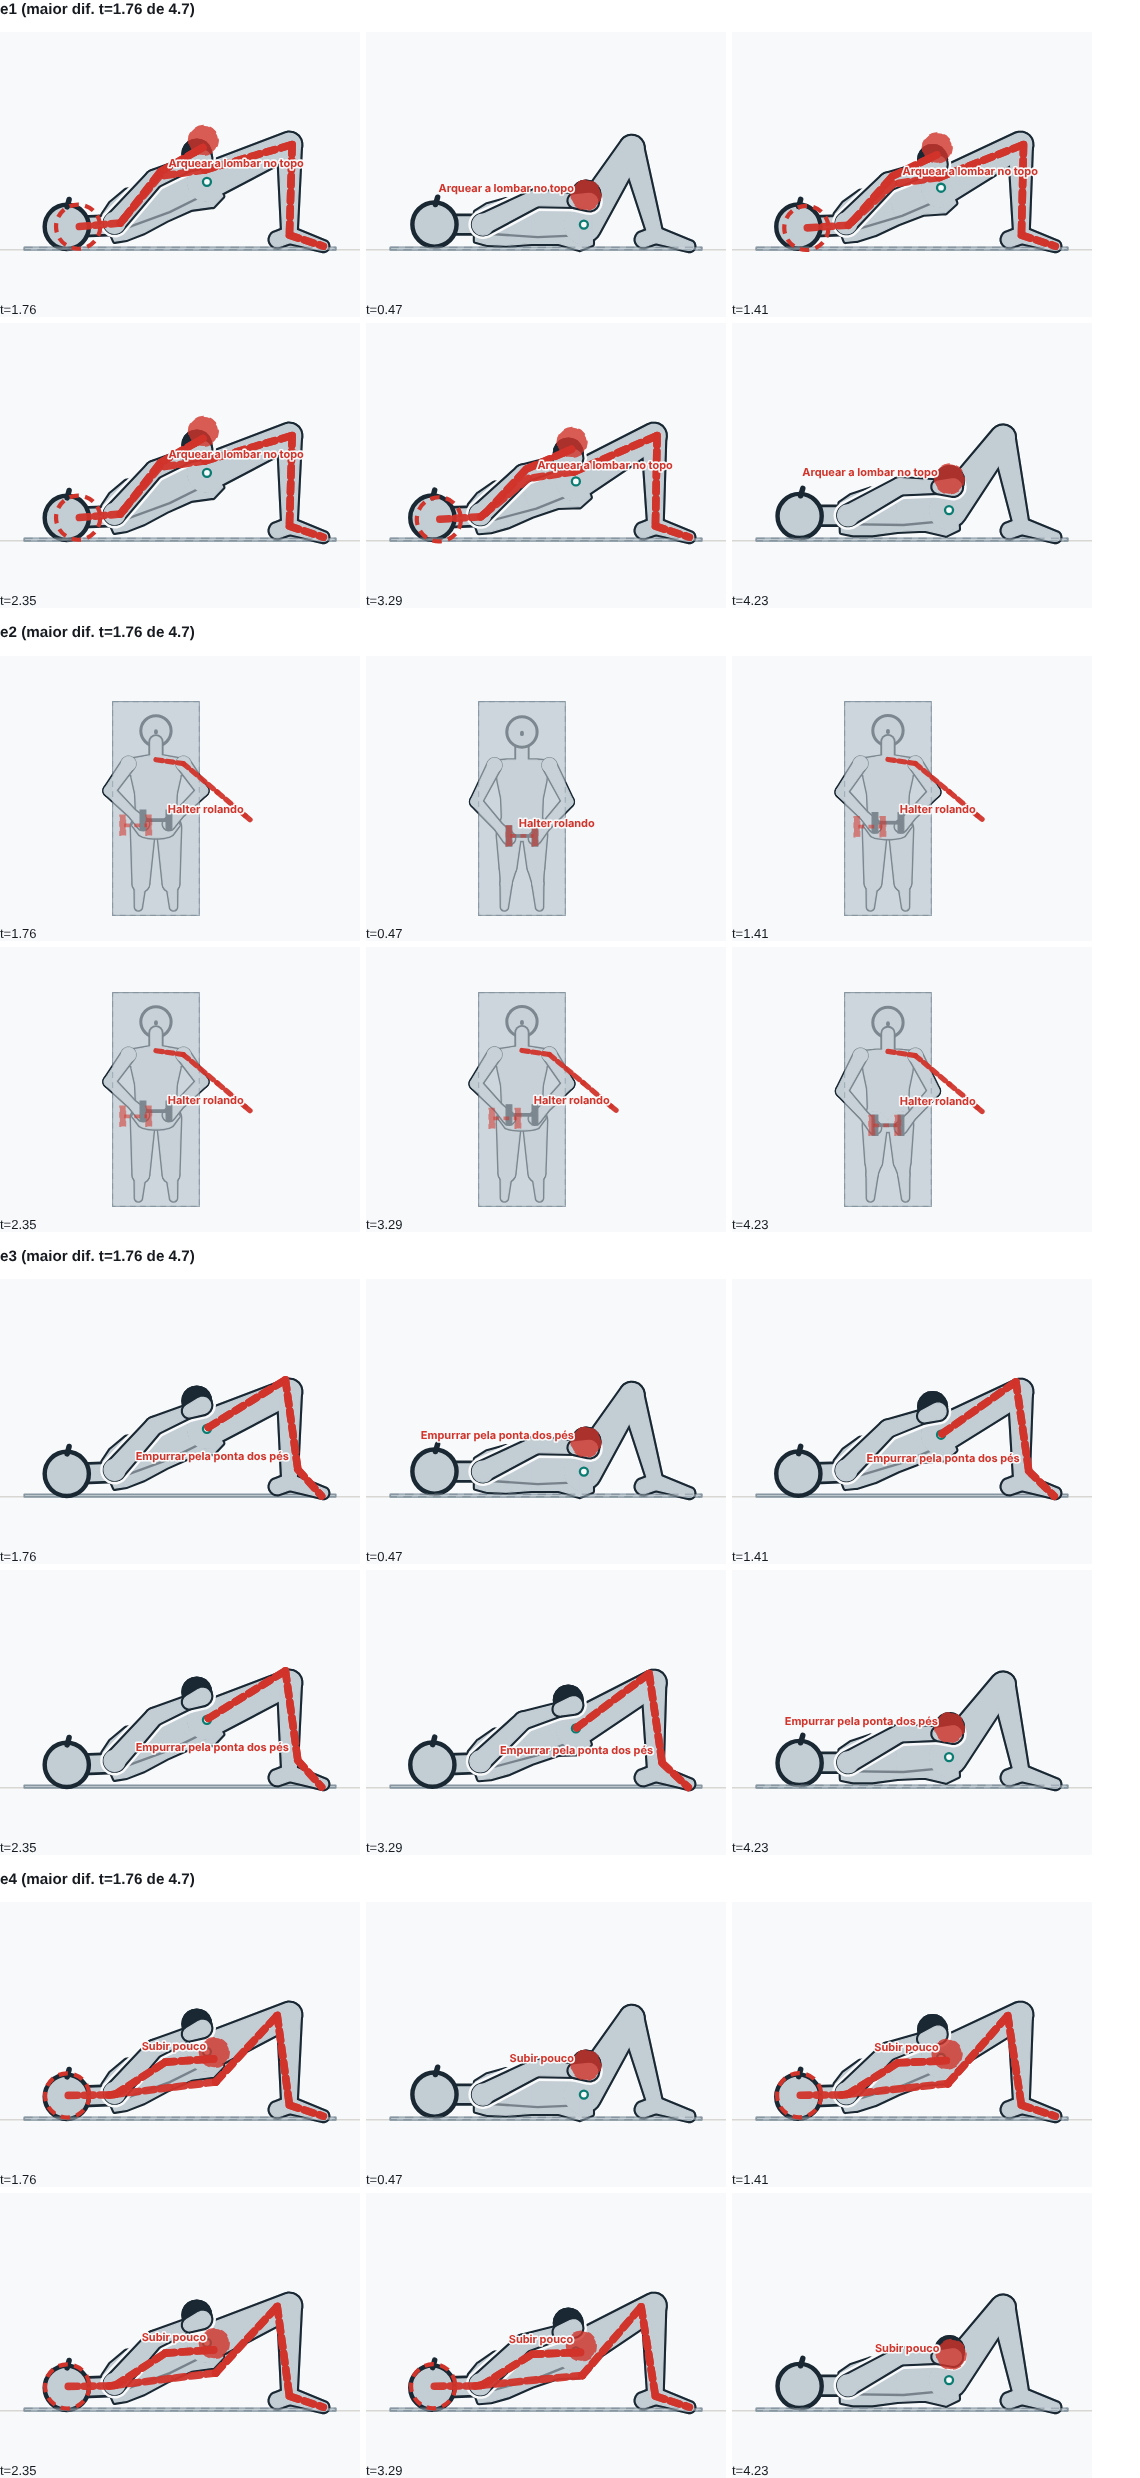
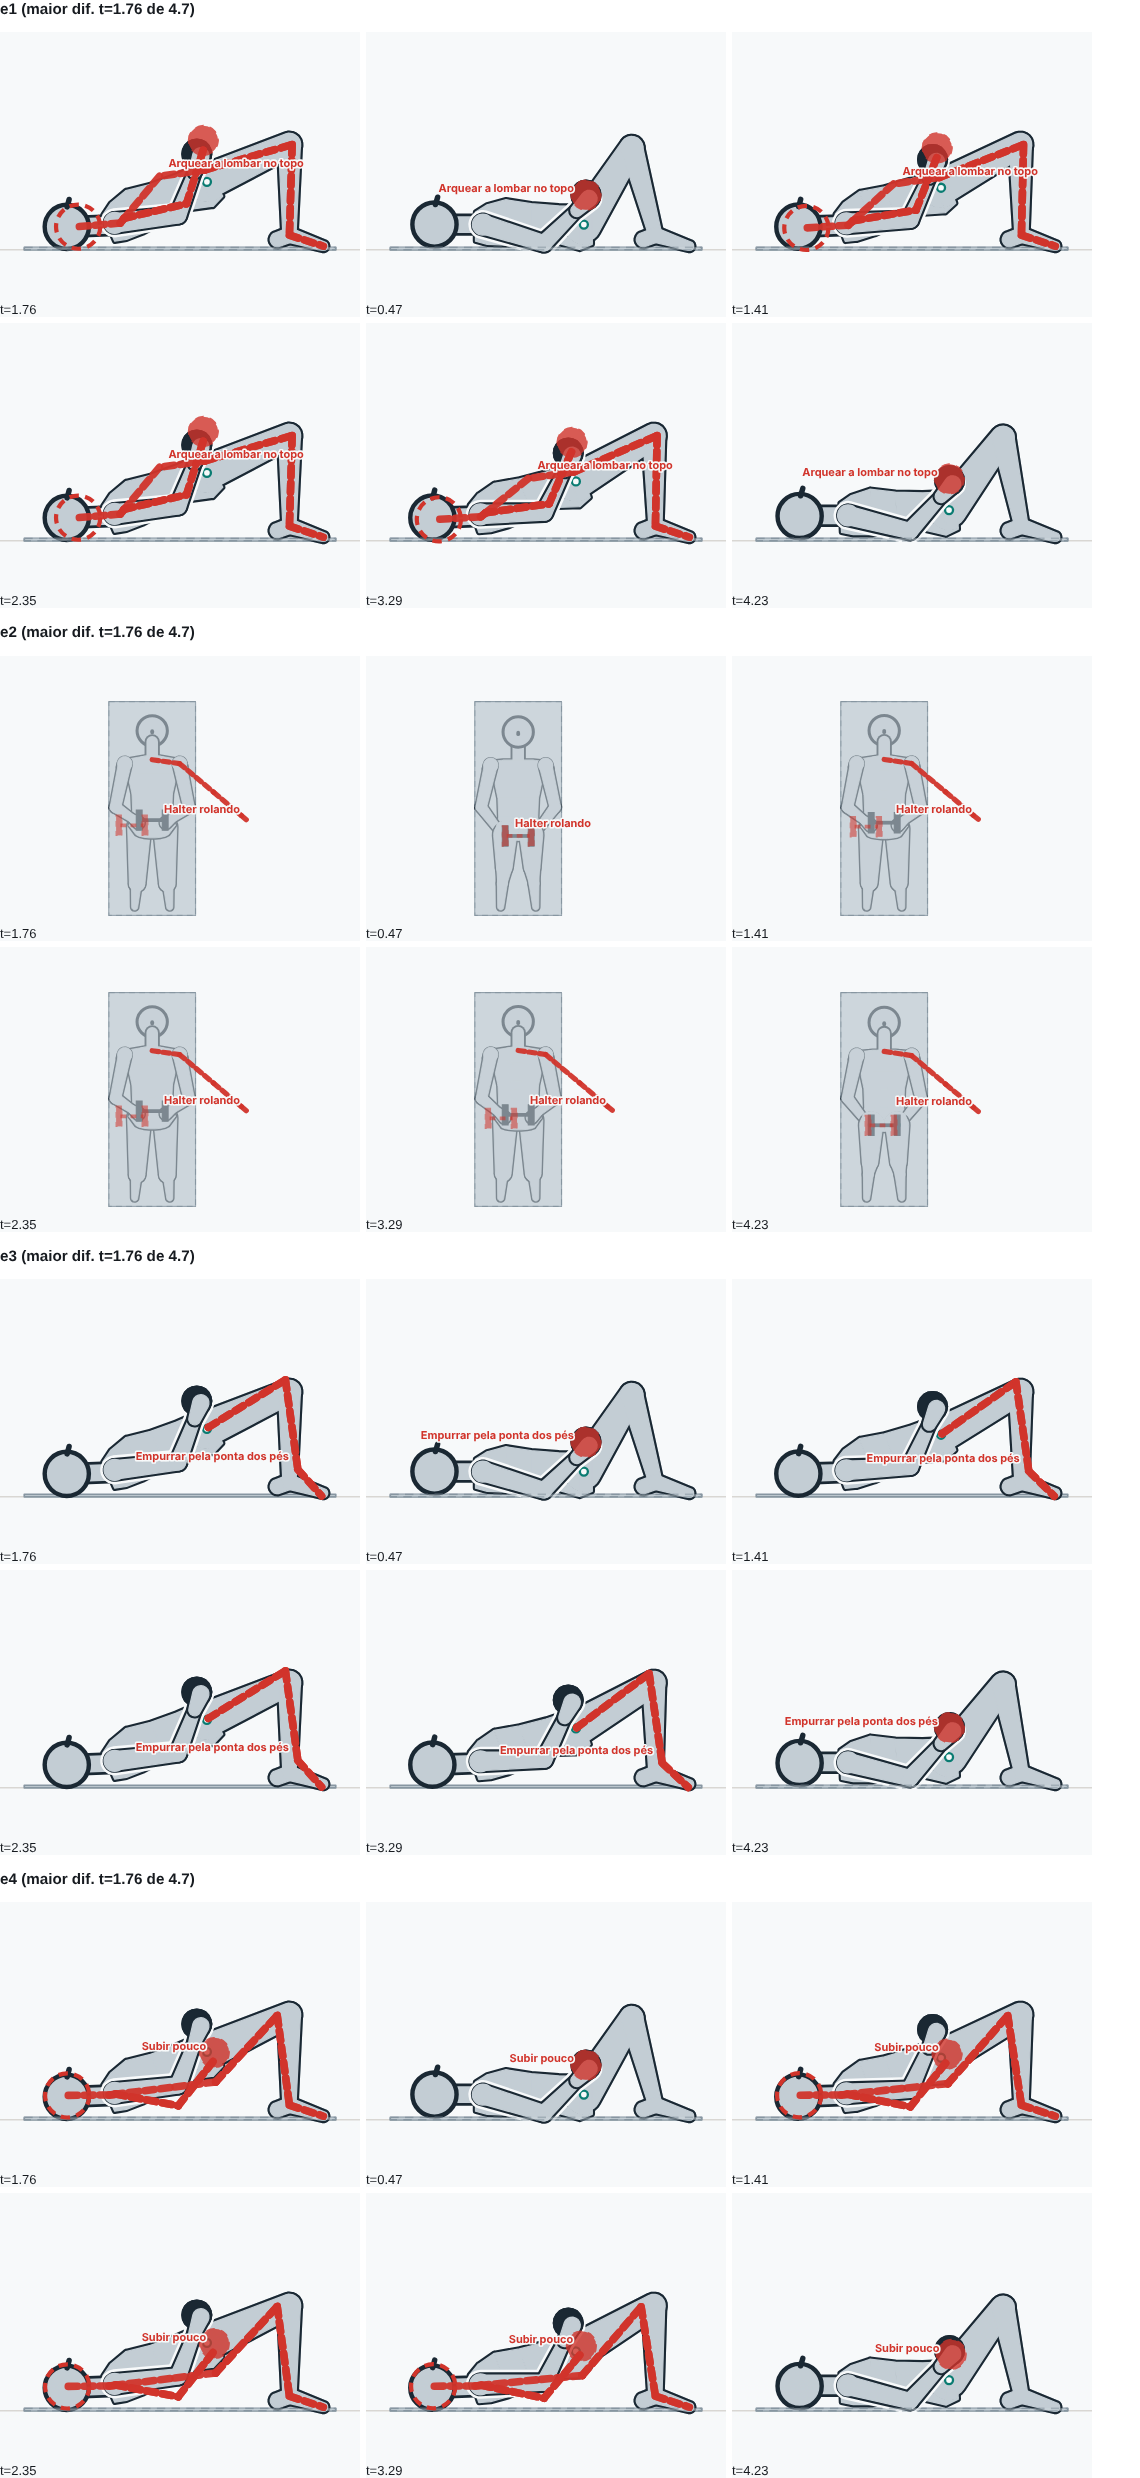
Apoia os cotovelos no chão na ponte com halter, a pedido do Gustavo
Claude-Session: https://claude.ai/code/session_01YRzts4qLGrZRtPAQYwh5CW

diff --git a/src/engine/exercicios/revisao/ponte-gluteo-halter.ts b/src/engine/exercicios/revisao/ponte-gluteo-halter.ts
@@ -9,7 +9,8 @@
 import { BOX, L3, TX, dumbbell3 } from '../../desenho';
 import { X, Y, Z, add, comb, mid } from '../../math';
 
-const MAO = (y, z) => ({ ikS: [10.5, y, z], poleRel: [1, .4, 0] });
+const MAO = (y, z) => ({ ikS: [10.5, y, z], poleRel: [.6, -.8, .2] });
+// os cotovelos apoiados no chão ao lado da cintura (pedido do Gustavo, 10/11: abertos e no ar, "o braço está estranho")
 // o halter: no meio das duas mãos, 3 cm acima delas (as mãos seguram as anilhas pelos lados)
 const halter = (sk) => {
   const r = sk.pose.rola || 0;

diff --git a/docs/revisoes/r5-anim/conferencia/ponte-gluteo-halter.md b/docs/revisoes/r5-anim/conferencia/ponte-gluteo-halter.md
@@ -7,6 +7,7 @@ Cada ponto do movimento, a fonte (ficha `docs/pesquisa/animacoes/ponte-gluteo-ha
 | Ponto | O que a fonte pede | O que o boneco faz | Confere? |
 |---|---|---|---|
 | Montagem | O halter deitado sobre a dobra do quadril, com uma toalha embaixo; as duas mãos seguram o halter o tempo todo (consenso; `seguranca-t5`) | O halter de través sobre o quadril, as duas mãos nas pontas (21 cm uma da outra, nas anilhas) do começo ao fim; a toalha fica no texto (o desenho não a mostra, como na ponte com kettlebell) | sim |
+| Braços | As duas mãos seguram o halter (consenso) | Os cotovelos ficam apoiados no chão, ao lado da cintura (a 25 cm do meio do corpo), e os antebraços sobem até o halter; no topo, com o quadril alto, o cotovelo sai 16 cm do chão. Corrigido a pedido do Gustavo (10/11): na 1ª folha, os cotovelos ficavam abertos e no ar, como na ponte com kettlebell | sim |
 | Posição | De costas, joelhos dobrados, pés no chão na largura do quadril (consenso) | O mesmo da ponte com kettlebell: pés a 22 cm um do outro, a ~um palmo dos glúteos | sim |
 | Subida | Empurra pelos calcanhares até ombros, quadril e joelhos ficarem em linha (consenso) | ~1 s; o quadril sobe de 12 a 32 cm; no topo, ombro, quadril e joelho em linha (a linha tracejada) | sim |
 | Topo | Pausa de ~1 s, costelas para baixo | 1 s parado | sim |
